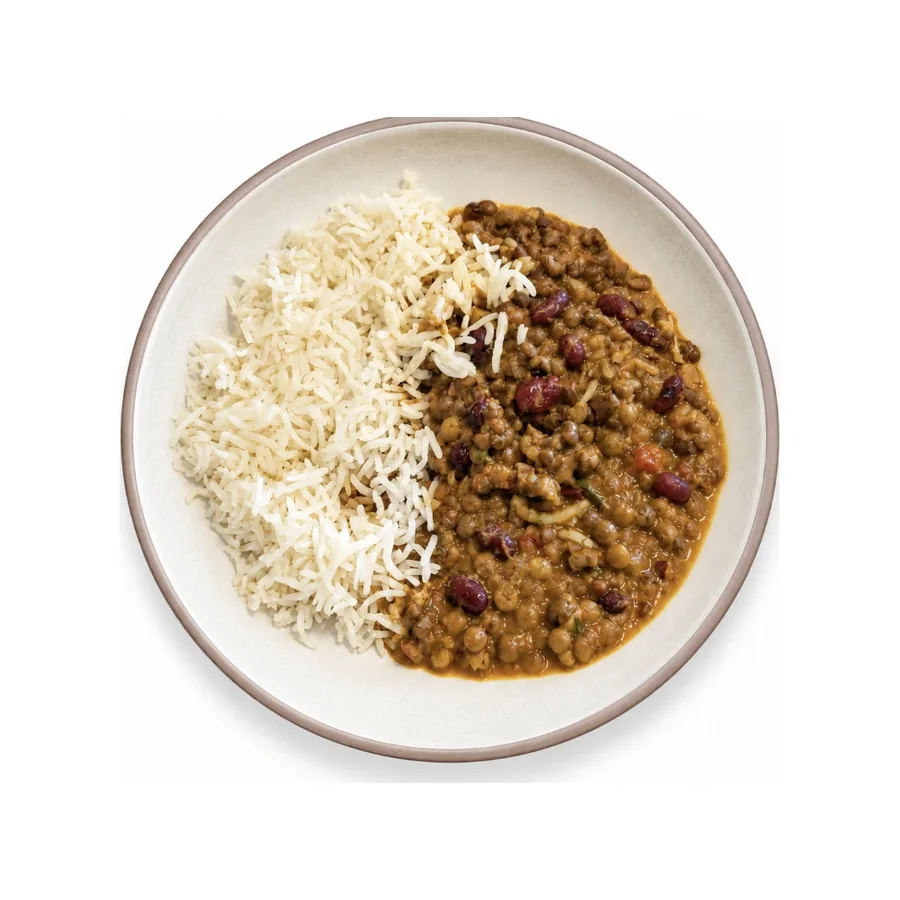
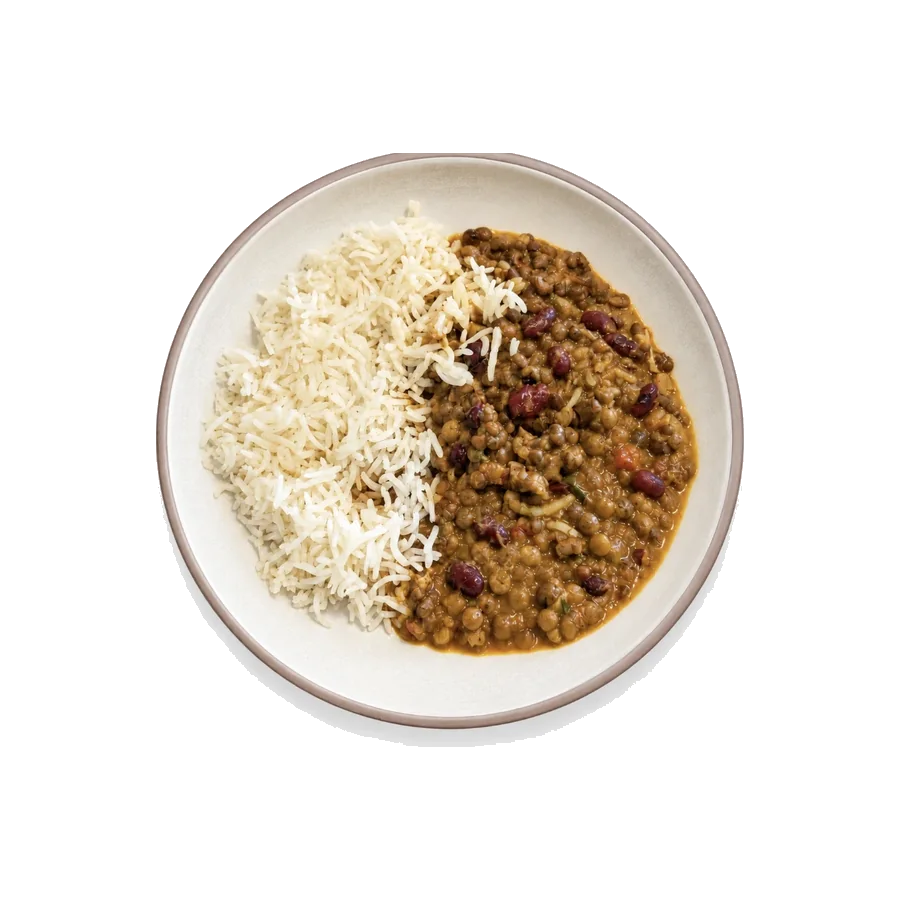
Cut the meals out of their white background, and stop quoting old prices
The photographs came off a white page and the site is cream, so every dish
carried a white square around it — most visible on the products header, where
the lasagna sat in a white tile over the collage. The background is now
transparent, taken as the white reachable from the edge of the frame rather
than every light pixel, so the rice, the mash and the quinoa stay where they
are instead of being eaten along with the page. The plate is a little smaller
in frame again, and the nine come to 478 KB.

Separately, and visible in the same screenshot: a line kept the price it was
added at, and the order lives in local storage for as long as the browser
holds it. A carton filled before the rise still read $11.90 beside a card
saying $12.90. The order is now checked against the catalogue whenever one is
loaded, on buy-now and on the two pages reachable without passing it. The
server always worked the real price out again when the order was placed, so
nobody was charged the stale figure — the page just contradicted itself.

Anything no longer in the catalogue is dropped at the same time, rather than
sitting in the carton holding a slot it cannot fill.

diff --git a/lib/cart.ts b/lib/cart.ts
@@ -13,8 +13,9 @@
  * again refreshes that figure, so a price moved in the database catches up.
  */
 
-import { useSyncExternalStore } from "react";
+import { useEffect, useSyncExternalStore } from "react";
 import { BUNDLE_SIZES, type BundleSize } from "./pricing";
+import { fetchShopProducts } from "./shop";
 
 // v4: no pack sizes — meals are single items — and the bundle size travels
 // with the lines.
@@ -206,6 +207,64 @@ export function removeLine(code: string) {
 
 export function clearOrder() {
   commit({ bundle: snapshot().bundle, lines: [] });
+}
+
+/**
+ * Brings the saved order up to date with the catalogue.
+ *
+ * A line keeps the price it was added at, and the order lives in local storage
+ * for as long as the browser holds it — so a carton filled before a price
+ * change still showed the old figure days later, with the card beside it
+ * showing the new one. The server works the real price out again when the
+ * order is placed, so nobody was ever charged the stale number; it just made
+ * the page contradict itself.
+ *
+ * Also drops anything no longer in the catalogue, which is otherwise a line
+ * that cannot be bought sitting in the carton taking up a slot.
+ */
+/**
+ * Fetches the catalogue once per page load and reprices the saved order against
+ * it. Pages that show a price but have no catalogue of their own — the cart
+ * and the checkout, both reachable straight from the basket icon — call this
+ * so they do not quote yesterday's figure.
+ */
+let catalogueCheck: Promise<void> | null = null;
+
+export function useLivePrices() {
+  useEffect(() => {
+    if (!catalogueCheck) {
+      catalogueCheck = fetchShopProducts()
+        .then(repriceFromCatalogue)
+        // A catalogue that will not load leaves the saved prices alone, which
+        // is the same position as before this existed.
+        .catch(() => undefined);
+    }
+  }, []);
+}
+
+export function repriceFromCatalogue(
+  products: readonly { code: string; name: string; unitPrice: number }[]
+) {
+  if (!products.length) return;
+
+  const current = snapshot();
+  if (!current.lines.length) return;
+
+  const byCode = new Map(products.map((p) => [p.code, p]));
+  let changed = false;
+
+  const lines = current.lines.flatMap((line) => {
+    const live = byCode.get(line.code);
+    if (!live) {
+      changed = true;
+      return [];
+    }
+    if (live.unitPrice === line.unitPrice && live.name === line.name) return [line];
+    changed = true;
+    return [{ ...line, unitPrice: live.unitPrice, name: live.name }];
+  });
+
+  if (changed) commit({ ...current, lines });
 }
 
 /* ------------------------------------------------------------------ */

diff --git a/components/BuyNow.tsx b/components/BuyNow.tsx
@@ -20,7 +20,13 @@ import {
 } from "lucide-react";
 import { Reveal } from "./Reveal";
 import { fetchShopProducts, sectionsOf, type ShopProduct } from "@/lib/shop";
-import { removeLine, setBundle, setQuantity, useOrder } from "@/lib/cart";
+import {
+  removeLine,
+  repriceFromCatalogue,
+  setBundle,
+  setQuantity,
+  useOrder,
+} from "@/lib/cart";
 import { useDeliveryRate } from "@/lib/delivery";
 import { getNutritionSlug } from "@/lib/site";
 import {
@@ -52,7 +58,12 @@ export function BuyNow() {
 
     fetchShopProducts()
       .then((loaded) => {
-        if (!cancelled) setProducts(loaded);
+        if (cancelled) return;
+        setProducts(loaded);
+        // A carton saved before a price change still holds the old figure, so
+        // the catalogue arriving is the moment to settle it — otherwise the
+        // summary and the card beside it disagree.
+        repriceFromCatalogue(loaded);
       })
       .catch((err) => {
         console.error("[buy-now] catalogue failed to load:", err);

diff --git a/components/CheckoutForm.tsx b/components/CheckoutForm.tsx
@@ -15,7 +15,7 @@ import {
 } from "lucide-react";
 import { AddressSearch } from "./AddressSearch";
 import { OrderNotice, OrderTerms, ProductThumb, Totals } from "./BuyNow";
-import { useOrder } from "@/lib/cart";
+import { useLivePrices, useOrder } from "@/lib/cart";
 import { createPaymentSession, placeOrder, rememberReceipt } from "@/lib/orders";
 import type { AddressSuggestion } from "@/lib/address-search";
 import {
@@ -46,6 +46,9 @@ import {
 
 export function CheckoutForm() {
   const { lines, bundle, items, remaining } = useOrder();
+  // Prices here come from the saved order, so check them against the
+  // catalogue — this page is reachable without passing buy-now.
+  useLivePrices();
   // The delivery step's postcode does two jobs: it says which island the
   // order is going to, which is what freight is charged on, and it is
   // looked up against the rate card to check we run a truck there at all.

diff --git a/components/CartView.tsx b/components/CartView.tsx
@@ -3,11 +3,20 @@
 import Link from "next/link";
 import { ArrowRight, Lock, ShoppingCart, Trash2 } from "lucide-react";
 import { OrderNotice, OrderTerms, ProductThumb, QuantityStepper, Totals } from "./BuyNow";
-import { clearOrder, removeLine, setQuantity, useOrder } from "@/lib/cart";
+import {
+  clearOrder,
+  removeLine,
+  setQuantity,
+  useLivePrices,
+  useOrder,
+} from "@/lib/cart";
 import { formatPrice, orderTotals } from "@/lib/pricing";
 
 export function CartView() {
   const { lines, bundle, items, remaining } = useOrder();
+  // Prices here come from the saved order, so check them against the
+  // catalogue — this page is reachable without passing buy-now.
+  useLivePrices();
   // Freight needs an address, and the cart hasn't asked for one — it is
   // quoted at the checkout, where the delivery step does.
   const totals = orderTotals({ lines, bundle, island: null });
